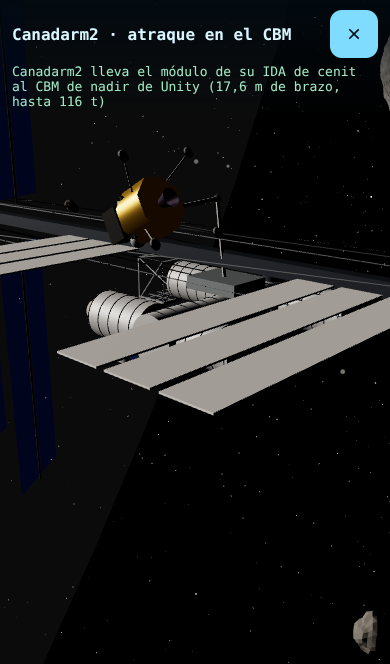
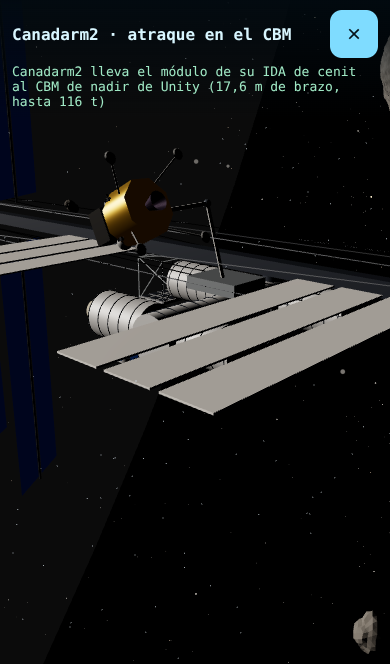
QA: PX-04 y PX-12 en vivo (2/2)
Claude-Session: https://claude.ai/code/session_013f2k3BKu3GvWho9ZkdeNDk

Changed region(s): [[0.2462, 0.2711, 0.5846, 0.4217]]

diff --git a/docs/qa/runs/2026-11-17-0131-PX-04-PX-12.md b/docs/qa/runs/2026-11-17-0131-PX-04-PX-12.md
@@ -1,0 +1,132 @@
+# Experiencia del jugador · 2026-11-17 01:31 UTC
+
+- Commit: `007ebee (con cambios sin commit)` (componentes-importacion)
+- Entorno: iPhone 13 de Playwright (pantalla 390×844, 390×664 visibles), CPU ×4 (botones: ×1); GPU ANGLE (Google, Vulkan 1.3.0 (SwiftShader Device (Subzero) (0x0000C0DE)), SwiftShader driver); local
+
+| ID | Recorrido | Veredicto | Comprobaciones | Presupuestos |
+|---|---|---|---|---|
+| PX-04 | Botones de cada pantalla de un iPhone 13 (390×664 visibles de 390×844): capturas, solapes y objetivos de toque | OK | 29/29 | ✓ |
+| PX-12 | Estación (la ISS) en un iPhone 13: primera persona, puertas con nombre, cocina de Unity con su despensa, camarote de Harmony, ajustes en la esterilla, «Ir» de una tarea de la estación y Canadarm2 atracando el módulo en el CBM, visto desde la Cupola | OK | 30/30 | ✓ |
+
+## PX-04 · Botones de cada pantalla de un iPhone 13 (390×664 visibles de 390×844): capturas, solapes y objetivos de toque
+
+- ✓ Cabina del módulo, acoplado a la nodriza: ningún botón se solapa con otro
+- · (preparación) (preparación) camina hasta «acople» (la máquina no se ve en pantalla)
+- ✓ Starship en ingravidez (cubierta 3): ningún botón se solapa con otro
+- ✓ Tablero de tareas: ningún botón se solapa con otro
+- · (preparación) (preparación) la llevamos a la escotilla del puente
+- ✓ Puente de mando: sala de consolas: ningún botón se solapa con otro
+- · (preparación) (preparación) camina hasta «nav» (la máquina no se ve en pantalla)
+- ✓ Consola de navegación con el mapa: ningún botón se solapa con otro
+- · (preparación) (preparación) camina hasta «sonda» (la máquina no se ve en pantalla)
+- ✓ Consola de la sonda: ningún botón se solapa con otro
+- · (preparación) (preparación) camina hasta «mente» (la máquina no se ve en pantalla)
+- ✓ la consola de la mente del puente dice qué falta para entrar por la sonda — Mente del asteroideFase, confianza y niveles; el duelo a través de la sonda posada101955 Bennu · fase 1 de 3: lanza la s
+- ✓ Consola de la mente del asteroide (puente): ningún botón se solapa con otro
+- · (preparación) (preparación) desacopla el módulo
+- ✓ Cabina en vuelo libre: ningún botón se solapa con otro
+- · (preparación) (preparación) Bennu enfadado y una línea de radio de los niveles
+- ✓ Cabina con un asteroide enfadado y radio: ningún botón se solapa con otro
+- · (preparación) (preparación) posa el módulo sobre Bennu (aterrizar a mano lleva minutos)
+- ✓ Módulo posado en Bennu: ningún botón se solapa con otro
+- ✓ Habitáculo del módulo, posado: ningún botón se solapa con otro
+- · (preparación) (preparación) camina hasta «escotilla» (la máquina no se ve en pantalla)
+- ✓ con el reto abierto solo se ven la hoja, la escena y el paso («Ponerse el traje y salir»)
+- ✓ Ponerse el traje (reto): ningún botón se solapa con otro
+- ✓ Paseo espacial: ningún botón se solapa con otro
+- · (preparación) (preparación) acopla el módulo en su puerto de la estación
+- ✓ Cabina acoplada a la estación: ningún botón se solapa con otro
+- · (preparación) (preparación) camina hasta «acople» (la máquina no se ve en pantalla)
+- ✓ Interior de la estación: ningún botón se solapa con otro
+- ✓ en la estación, Tareas abre la lista global con «Ir»
+- ✓ Lista de tareas en la estación: ningún botón se solapa con otro
+- · (preparación) (preparación) Doménica va hasta la Cupola
+- ✓ la Cupola abre la vista de la estación por fuera
+- ✓ Vista desde la Cupola: ningún botón se solapa con otro
+- · (preparación) (preparación) Doménica va hasta la refinería
+- ✓ la pantalla de la estación tiene sus pestañas — materiales, planos, fabricacion, hangar, importar, vida
+- ✓ Estación, pestaña materiales: ningún botón se solapa con otro
+- ✓ Estación, pestaña planos: ningún botón se solapa con otro
+- ✓ Estación, pestaña fabricacion: ningún botón se solapa con otro
+- ✓ Estación, pestaña hangar: ningún botón se solapa con otro
+- ✓ Estación, pestaña importar: ningún botón se solapa con otro
+- ✓ Estación, pestaña vida: ningún botón se solapa con otro
+- ✓ ningún error de JavaScript en la página
+
+Problemas de experiencia:
+- Hay que desplazar la pantalla para llegar a «respirar oxígeno puro con la m»: no cabe en 390×664
+
+Rendimiento (GPU: ANGLE (Google, Vulkan 1.3.0 (SwiftShader Device (Subzero) (0x0000C0DE)), SwiftShader driver)): 584 fotogramas en 60.1 s, mediana 66.6 ms, 20 tareas largas (la mayor 1310 ms).
+
+| Presupuesto | Valor | Máximo | |
+|---|---|---|---|
+| Carga hasta el primer fotograma | 1511 ms | 8000 ms | ✓ |
+| Fotograma p95 | 316.6 ms | 33 ms | ✗ informativo (GPU por software) |
+| Fotogramas de más de 33 ms | 82.9 % | 10 % | ✗ informativo (GPU por software) |
+| Tareas largas por minuto | 20 | 30 | ✓ |
+| Memoria JS | 45.2 MB | 350 MB | ✓ |
+| Llamadas de dibujo por fotograma | 37 | 600 | ✓ |
+| Triángulos por fotograma | 1.4 k | 2000 k | ✓ |
+
+Capturas: ux-despues-cabina-acoplada-movil.png, ux-despues-ingravidez-movil.png, ux-despues-tareas-movil.png, ux-despues-puente-movil.png, ux-despues-mapa-movil.png, ux-despues-sonda-movil.png, ux-despues-mente-puente-movil.png, ux-despues-cabina-libre-movil.png, ux-despues-cabina-ira-movil.png, ux-despues-aterrizado-movil.png, ux-despues-habitaculo-movil.png, ux-despues-eva-traje-movil.png, ux-despues-eva-movil.png, ux-despues-estacion-acoplado-movil.png, ux-despues-estacion-interior-movil.png, ux-despues-estacion-tareas-movil.png, ux-despues-estacion-cupola-movil.png, ux-despues-estacion-materiales-movil.png, ux-despues-estacion-planos-movil.png, ux-despues-estacion-fabricacion-movil.png, ux-despues-estacion-hangar-movil.png, ux-despues-estacion-importar-movil.png, ux-despues-estacion-vida-movil.png
+
+## PX-12 · Estación (la ISS) en un iPhone 13: primera persona, puertas con nombre, cocina de Unity con su despensa, camarote de Harmony, ajustes en la esterilla, «Ir» de una tarea de la estación y Canadarm2 atracando el módulo en el CBM, visto desde la Cupola
+
+- · (preparación) (preparación) acopla el módulo en su puerto de la estación
+- · (preparación) (preparación) camina hasta «acople» (la máquina no se ve en pantalla)
+- ✓ por la escotilla entra en la estación
+- ✓ la vista por defecto es en primera persona — Vista: 1ª persona
+- ✓ sin los botones viejos «Tareas», «Vista 3ª» y «Salir» escritos: iconos de raíz — Volver al módulo de aterrizaje / Vista: 1ª persona V / Tareas T
+- ✓ entra en Harmony (Nodo 2), por su IDA de cenit — nodo-2
+- ✓ Entrada a Harmony: ningún botón se solapa con otro
+- · (preparación) (preparación) Doménica va hasta «puerta-escotilla-destiny-nodo2-nodo-2»
+- ✓ la puerta dice adónde lleva, con icono y «Entrar en Destiny», nunca «?» — Escotilla · Destiny (laboratorio) Escotilla Destiny – Harmony: de Harmony (Nodo 2) a Destiny (laboratorio) Entrar en Des
+- ✓ Puerta a Destiny: ningún botón se solapa con otro
+- ✓ «Entrar en…» la lleva al otro lado de la escotilla — destiny
+- · (preparación) (preparación) Doménica va hasta «cocina»
+- ✓ la cocina de la estación, en Unity como en la ISS, ofrece platos de su despensa — Cocina y mesa La cocina de la ISS está en Unity: calentador de comida, grifo de agua caliente y fría y la mesa con cinchas y velcro. Cocina 
+- ✓ Cocina de la estación: ningún botón se solapa con otro
+- ✓ con el reto abierto solo se ven la hoja, la escena y el paso («Cocinar Chapati (pan plano de trigo)»)
+- ✓ cocinar gasta la despensa de la estación (no la de la nodriza) — [["harina",8],["cacahuete-georgia-red",12],["papa-norland",6],["carne-cultivada",300]] → [["harina",7],["cacahuete-georgia-red",12],["papa-norland",6],["carne-cultivada",300]]
+- · (preparación) (preparación) Doménica va hasta «camarotes»
+- ✓ dormir en un camarote la calma
+- ✓ Camarotes de la estación: ningún botón se solapa con otro
+- · (preparación) (preparación) Doménica va hasta «esterilla»
+- ✓ en la esterilla de la estación se abren los ajustes
+- ✓ Ajustes en la esterilla de la estación: ningún botón se solapa con otro
+- · (preparación) (preparación) Doménica va hasta «ejercicio»
+- ✓ la lista global incluye las tareas de la estación (yoga en su esterilla)
+- ✓ Lista de tareas en la estación: ningún botón se solapa con otro
+- ✓ «Ir» la lleva a la esterilla de la estación y empieza el yoga — esterilla
+- · (preparación) (preparación) Doménica va hasta «cupula»
+- ✓ en la Cupola, el puesto del brazo ofrece atracar el módulo en el CBM — Cupola y brazo (RWS) Siete ventanas y el puesto robótico de Canadarm2: desde aquí el brazo atraca el módulo en el CBM de Unity y se mira la estación por fuera A
+- ✓ Canadarm2 atraca el módulo en el CBM de Unity
+- ✓ se ve desde fuera: la vista de la Cupola se abre con el brazo moviéndose
+- ✓ Canadarm2 lleva el módulo al CBM: ningún botón se solapa con otro
+- ✓ el brazo termina y el módulo queda dibujado en el CBM
+- ✓ Módulo atracado en el CBM de Unity: ningún botón se solapa con otro
+- · (preparación) (preparación) Doménica va hasta «cupula»
+- ✓ el puesto de la Cupola abre la lista global con «Ir», con todas las tareas — 48 de 48
+- · (preparación) (preparación) Doménica va hasta «salir-sonda»
+- ✓ con el módulo en el CBM, su escotilla dice por qué está cerrada y qué la abre — Escotilla del módulo (IDA de cenit) Escotilla IDSS en el cenit de Harmony, como el IDA-3: por aquí vuelves a la cabina del módulo de aterrizaje Volver al módulo
+- ✓ Escotilla del módulo cerrada: ningún botón se solapa con otro
+- · (preparación) (preparación) Doménica va hasta «cupula»
+- ✓ el brazo devuelve el módulo a su IDA
+- ✓ ningún error de JavaScript en la página
+
+Problemas de experiencia:
+- Hay que desplazar la pantalla para llegar a «amasa hasta que la masa esté l»: no cabe en 390×664
+
+Rendimiento (GPU: ANGLE (Google, Vulkan 1.3.0 (SwiftShader Device (Subzero) (0x0000C0DE)), SwiftShader driver)): 1050 fotogramas en 139.6 s, mediana 100 ms, 35 tareas largas (la mayor 569 ms).
+
+| Presupuesto | Valor | Máximo | |
+|---|---|---|---|
+| Carga hasta el primer fotograma | 1332 ms | 8000 ms | ✓ |
+| Fotograma p95 | 350 ms | 33 ms | ✗ informativo (GPU por software) |
+| Fotogramas de más de 33 ms | 91 % | 10 % | ✗ informativo (GPU por software) |
+| Tareas largas por minuto | 15 | 30 | ✓ |
+| Memoria JS | 48.1 MB | 350 MB | ✓ |
+| Llamadas de dibujo por fotograma | 159 | 600 | ✓ |
+| Triángulos por fotograma | 47.3 k | 2000 k | ✓ |
+
+Capturas: estacion-movil-01-entrada.png, estacion-movil-02-puerta.png, estacion-movil-03-cocina.png, estacion-movil-04-camarotes.png, estacion-movil-05-ajustes.png, estacion-movil-06-tareas.png, estacion-movil-07-brazo.png, estacion-movil-08-cbm.png, estacion-movil-09-escotilla-cerrada.png

diff --git a/docs/qa/registro.md b/docs/qa/registro.md
@@ -208,7 +208,7 @@ de la nave real es **PX-28** (`starship`); PX-03 y PX-04/05 leen la radio y audi
 | PX-01 | Probado (en vivo) | 2026-11-16 | `1c1b689` | [run](runs/2026-11-16-1923-PX-01-PX-02-PX-13-PX-27.md): 54 OK |
 | PX-02 | FAIL | 2026-11-16 | `1c1b689` | [run](runs/2026-11-16-1923-PX-01-PX-02-PX-13-PX-27.md): 28 OK, 1 FALLA |
 | PX-03 | Probado (en vivo) | 2026-11-16 | `4b04c23` | [run](runs/2026-11-16-2239-PX-03-PX-07-PX-09-PX-10-PX-12-PX-24-PX-28-PX-29-PX-31.md): 17 OK |
-| PX-04 | Probado (en vivo) | 2026-11-16 | `6e1a694` | [run](runs/2026-11-16-2117-PX-04-PX-12-PX-28-PX-29-PX-30.md): 29 OK |
+| PX-04 | Probado (en vivo) | 2026-11-17 | `007ebee` | [run](runs/2026-11-17-0131-PX-04-PX-12.md): 29 OK |
 | PX-05 | Probado (en vivo) | 2026-11-14 | `cb310e1` | [run](runs/2026-11-14-1626-PX-01-PX-02-PX-04-PX-05-PX-10-PX-11.md): 25 OK |
 | PX-06 | Probado (en vivo) | 2026-11-16 | `3a00b8d` | [run](runs/2026-11-16-2046-PX-03-PX-06-PX-28-PX-30.md): 22 OK |
 | PX-07 | Probado (en vivo) | 2026-11-16 | `4b04c23` | [run](runs/2026-11-16-2239-PX-03-PX-07-PX-09-PX-10-PX-12-PX-24-PX-28-PX-29-PX-31.md): 15 OK |
@@ -216,7 +216,7 @@ de la nave real es **PX-28** (`starship`); PX-03 y PX-04/05 leen la radio y audi
 | PX-09 | Probado (en vivo) | 2026-11-16 | `4b04c23` | [run](runs/2026-11-16-2239-PX-03-PX-07-PX-09-PX-10-PX-12-PX-24-PX-28-PX-29-PX-31.md): 10 OK |
 | PX-10 | Probado (en vivo) | 2026-11-16 | `4b04c23` | [run](runs/2026-11-16-2239-PX-03-PX-07-PX-09-PX-10-PX-12-PX-24-PX-28-PX-29-PX-31.md): 27 OK |
 | PX-11 | Probado (en vivo) | 2026-11-16 | `75bea64` | [run](runs/2026-11-16-1500-PX-02-PX-10-PX-11.md): 26 OK |
-| PX-12 | Probado (en vivo) | 2026-11-16 | `4b04c23` | [run](runs/2026-11-16-2239-PX-03-PX-07-PX-09-PX-10-PX-12-PX-24-PX-28-PX-29-PX-31.md): 30 OK |
+| PX-12 | Probado (en vivo) | 2026-11-17 | `007ebee` | [run](runs/2026-11-17-0131-PX-04-PX-12.md): 30 OK |
 | PX-13 | Probado (en vivo) | 2026-11-16 | `1c1b689` | [run](runs/2026-11-16-1923-PX-01-PX-02-PX-13-PX-27.md): 42 OK |
 | PX-14 | Probado (en vivo) | 2026-11-16 | `be7ba22` | [run](runs/2026-11-16-1835-PX-14-PX-15-PX-25.md): 34 OK |
 | PX-15 | Probado (en vivo) | 2026-11-16 | `3a00b8d` | [run](runs/2026-11-16-2034-PX-06-PX-10-PX-12-PX-15.md): 61 OK |
@@ -238,6 +238,7 @@ La más reciente arriba.
 
 | Fecha | Casos | Modo | Resultado | Run |
 |---|---|---|---|---|
+| 2026-11-17 01:31 | PX-04, PX-12 | Experiencia (Playwright) | 2/2 recorridos bien | [run](runs/2026-11-17-0131-PX-04-PX-12.md) |
 | 2026-11-17 01:16 | PX-24, PX-31, PX-33, PX-20 | Experiencia (Playwright) | 4/4 recorridos bien | [run](runs/2026-11-17-0116-PX-24-PX-31-PX-33-PX-20.md) |
 | 2026-11-17 01:11 | PX-33 | Experiencia (Playwright) | 0/1 recorridos bien | [run](runs/2026-11-17-0111-PX-33.md) |
 | 2026-11-16 23:05 | PX-31 | Experiencia (Playwright) | 1/1 recorridos bien | [run](runs/2026-11-16-2305-PX-31.md) |
